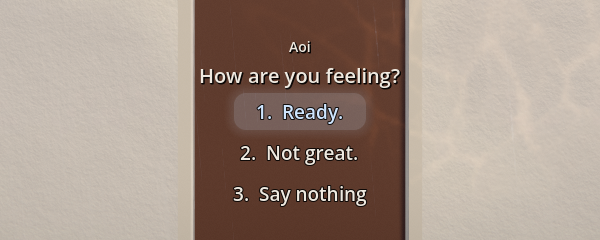
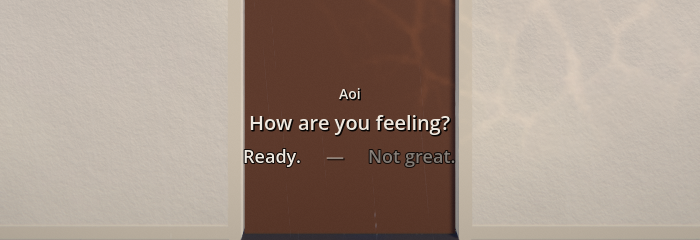
The choice back to one line: two answers, a dash between, A/D and Enter
The user, after the glass panel and then the hover glow "popped out too much and broke the horror immersion": go back
to the dashes, two choices at most, near the bottom under the question, no number keys, the mouse or A/D (the
arrows) and Enter.

- The answers sit on one line under the question with a dash between, as the dialogue's words: no panel, border or
  numbers.
- The answer pointed at is the lines' white, and the other is dimmed.
- A and D (or the arrows) move between them, Enter picks, and the mouse points and clicks. Number keys pick nothing.
- The story check warns at a choice, reply or ask with more than two answers. Four in TestRoom001's lab are flagged
  and left as they are.
- The checks pick an answer as a player does (`hud.choice_pick`: D or A to it, then Enter). GDTESTROOM's lobby step
  checks the line, its dash, that a number does nothing, A and D, and a click.

GDPLAY, GDTESTROOM and CHECKS ok.

Claude-Session: https://claude.ai/code/session_014EE6XX4YZUtcfj7aXd8rgR

Changed region(s): [[0.0, 0.0, 1.0, 1.0], [0.48, 0.175, 0.54, 0.2333]]

diff --git a/tools/story_check.py b/tools/story_check.py
@@ -695,6 +695,8 @@ def check_reply(cw, c, story, things, lvl, stage, cast, clip_max, r, later=()):
     rp = c["reply"]
     opts = rp.get("options", [])
     ids = [o.get("id") for o in opts]
+    if len(opts) > 2:
+        r.warn(f"{cw}: a reply has {len(opts)} answers; two answers at most: the game shows them on one line with a dash between (DECISIONS 2026-10-30, evening)")
     if len(opts) < 2:
         r.warn(f"{cw}: a reply has two answers or more; this one has {len(opts)}")
     elif len(opts) > 3:
@@ -964,6 +966,8 @@ def check_scene(sid, sc, story, things, r):
                     oids = [o.get("id") for o in ev.get("options", [])]
                     if len(oids) < 2 or None in oids or len(set(oids)) != len(oids):
                         r.err(f"{cw}: a choice needs two options or more, each with a unique id and a label")
+                    elif len(oids) > 2:
+                        r.warn(f"{cw}: a choice with {len(oids)} answers; two answers at most: the game shows them on one line with a dash between (DECISIONS 2026-10-30, evening)")
                     if "default" in ev:
                         r.warn(f"{cw}: a choice waits for the player now (DECISIONS 2026-10-30: no timed choices): `default` is never taken; "
                                "silence is an option of its own")
@@ -1254,6 +1258,8 @@ def check_action(bid, a, story, things, r, stage=None):
         if not isinstance(opts, list) or not 2 <= len(opts) <= 4 or not all(isinstance(o, dict) for o in opts):
             r.err(f"{bid}: ask {v!r}: options are 2 to 4 answers, each {{id, label, ja?, do?}}")
             return
+        if len(opts) > 2:
+            r.warn(f"{bid}: ask {v!r} has {len(opts)} answers; two answers at most: the game shows them on one line with a dash between (DECISIONS 2026-10-30, evening)")
         ids = [o.get("id") for o in opts]
         if len(set(ids)) != len(ids) or not all(isinstance(i, str) and i for i in ids):
             r.err(f"{bid}: ask {v!r}: each answer needs its own id")

diff --git a/docs/STORY_FORMAT.md b/docs/STORY_FORMAT.md
@@ -584,9 +584,10 @@ with `{"tick": "<id>"}` at the end of that beat, not by its own trigger (the sto
   scene that should end the stitch or branch the story is a flow node instead (or an interrupt).
 - `ask`: a **question with answers**, asked in play. The question is the footer's line, like every line: `line` (a
   line id: spoken, the speaker's name above) or `text` (a thought); the answers sit right under
-  it near the bottom of the frame, a numbered row each set as the dialogue's own lines, no panel (1. 2. 3.: the row
-  under the mouse or the keys lights up, a click or its number picks it; DECISIONS 2026-10-30), while the camera's focus holds on `who` (a cast member's face) or `on` (a placed thing it's
-  about). A reply in a scene (§9.9) and a scene's choice show theirs the same way. 2 to 4 `options`, each `id`,
+  it near the bottom of the frame, on one line with a dash between, set as the dialogue's own words, no panel and no
+  numbers: the answer pointed at is the lines' white, the other dimmed; A and D (or the arrows) move, Enter picks, the
+  mouse points and clicks (DECISIONS 2026-10-30, evening). **Two answers at most** (the check warns past two), while the camera's focus holds on `who` (a cast member's face) or `on` (a placed thing it's
+  about). A reply in a scene (§9.9) and a scene's choice show theirs the same way. 2 `options` (4 at most, warned), each `id`,
   `label`, `ja` (optional, small over the label) and `do` (actions run when it's picked). It waits for an answer:
   nothing is timed (DECISIONS 2026-10-30). Picking
   one is heard as `{"answered": ask, "option": id}`, so a later beat in the stitch can follow it; to branch the

diff --git a/docs/GODOT_EXPORT.md b/docs/GODOT_EXPORT.md
@@ -188,9 +188,10 @@ objects, the same frame. **The dialogue choice** (the user: "I can't click
    anything", and the options run together with dashes): in a live scene the input handler passed only the walking
    keys, so the number keys never reached the choice, and the mouse stayed captured for looking; now while a choice
    is up every key goes to it and the mouse is free (`hud.choosing`, play's `_on_choosing`, taken back after), and the
-   options are a row per answer, `1.  Ready.`, set as the dialogue's lines with no panel or border (the user, that
-   evening: "remove the border, make it look like the normal dialogue except it highlights when you hover"), a soft
-   glow without an edge behind the row lit under the mouse or the keys (W/S and
+   answers sit on one line under the question with a dash between, as the dialogue's own words, no panel, border or
+   numbers (the user, that evening, after a glass panel and then a glow "popped out too much and broke the horror
+   immersion"): the answer pointed at is the lines' white and the other dimmed; A and D (or the arrows) move, Enter
+   picks, the mouse points and clicks; two answers at most (the story check warns past two) (W/S and
    the arrows move, a number or Enter picks), a click picking it (`docs/godot_sheets/2026-10-30_choice_panel.png`;
    GDTESTROOM clicks the lobby's first row through its button and checks the mouse freed).
    **The peephole's lens and the latch's thumb turn drawn** (2026-10-30, the user: "in director tool I see a peephole

diff --git a/docs/DECISIONS.md b/docs/DECISIONS.md
@@ -12,6 +12,11 @@ The user's answers, newest first. They override the plan, the research and the d
   everything that makes things look good (not the most intensive, a balanced one) so things don't look too sharp".
   The plugin applies the balanced project settings when it's enabled; the export writes them; `look_balanced.tscn`
   brings the environment, the camhybrid tape and the grade in one drop.
+- **The choice back to one line**: after a glass panel and then a glow on hover ("it pops out too much and breaks the
+  horror immersion"): "go back to our original of --- between the choices but keep it to 2 choices max, close to the
+  bottom of the frame, below the question; we don't want 1 or 2 to select: click with the mouse or move between the
+  choices with A or D (or the arrow keys) + Enter". The answers on one line with a dash between, the one pointed at
+  white and the other dimmed; no numbers; the story check warns past two answers.
 - **Light zones instead of lights placed and tuned by Claude**: "couldn't you just add some simple presets for
   different room lights with a cubed area affected (similar to how VoxelGI looks), the zone is what will be affected
   by lighting; I'm totally ok limiting architecture designs in my game to cubes/rectangles/boxes". `HSLightZone` and
